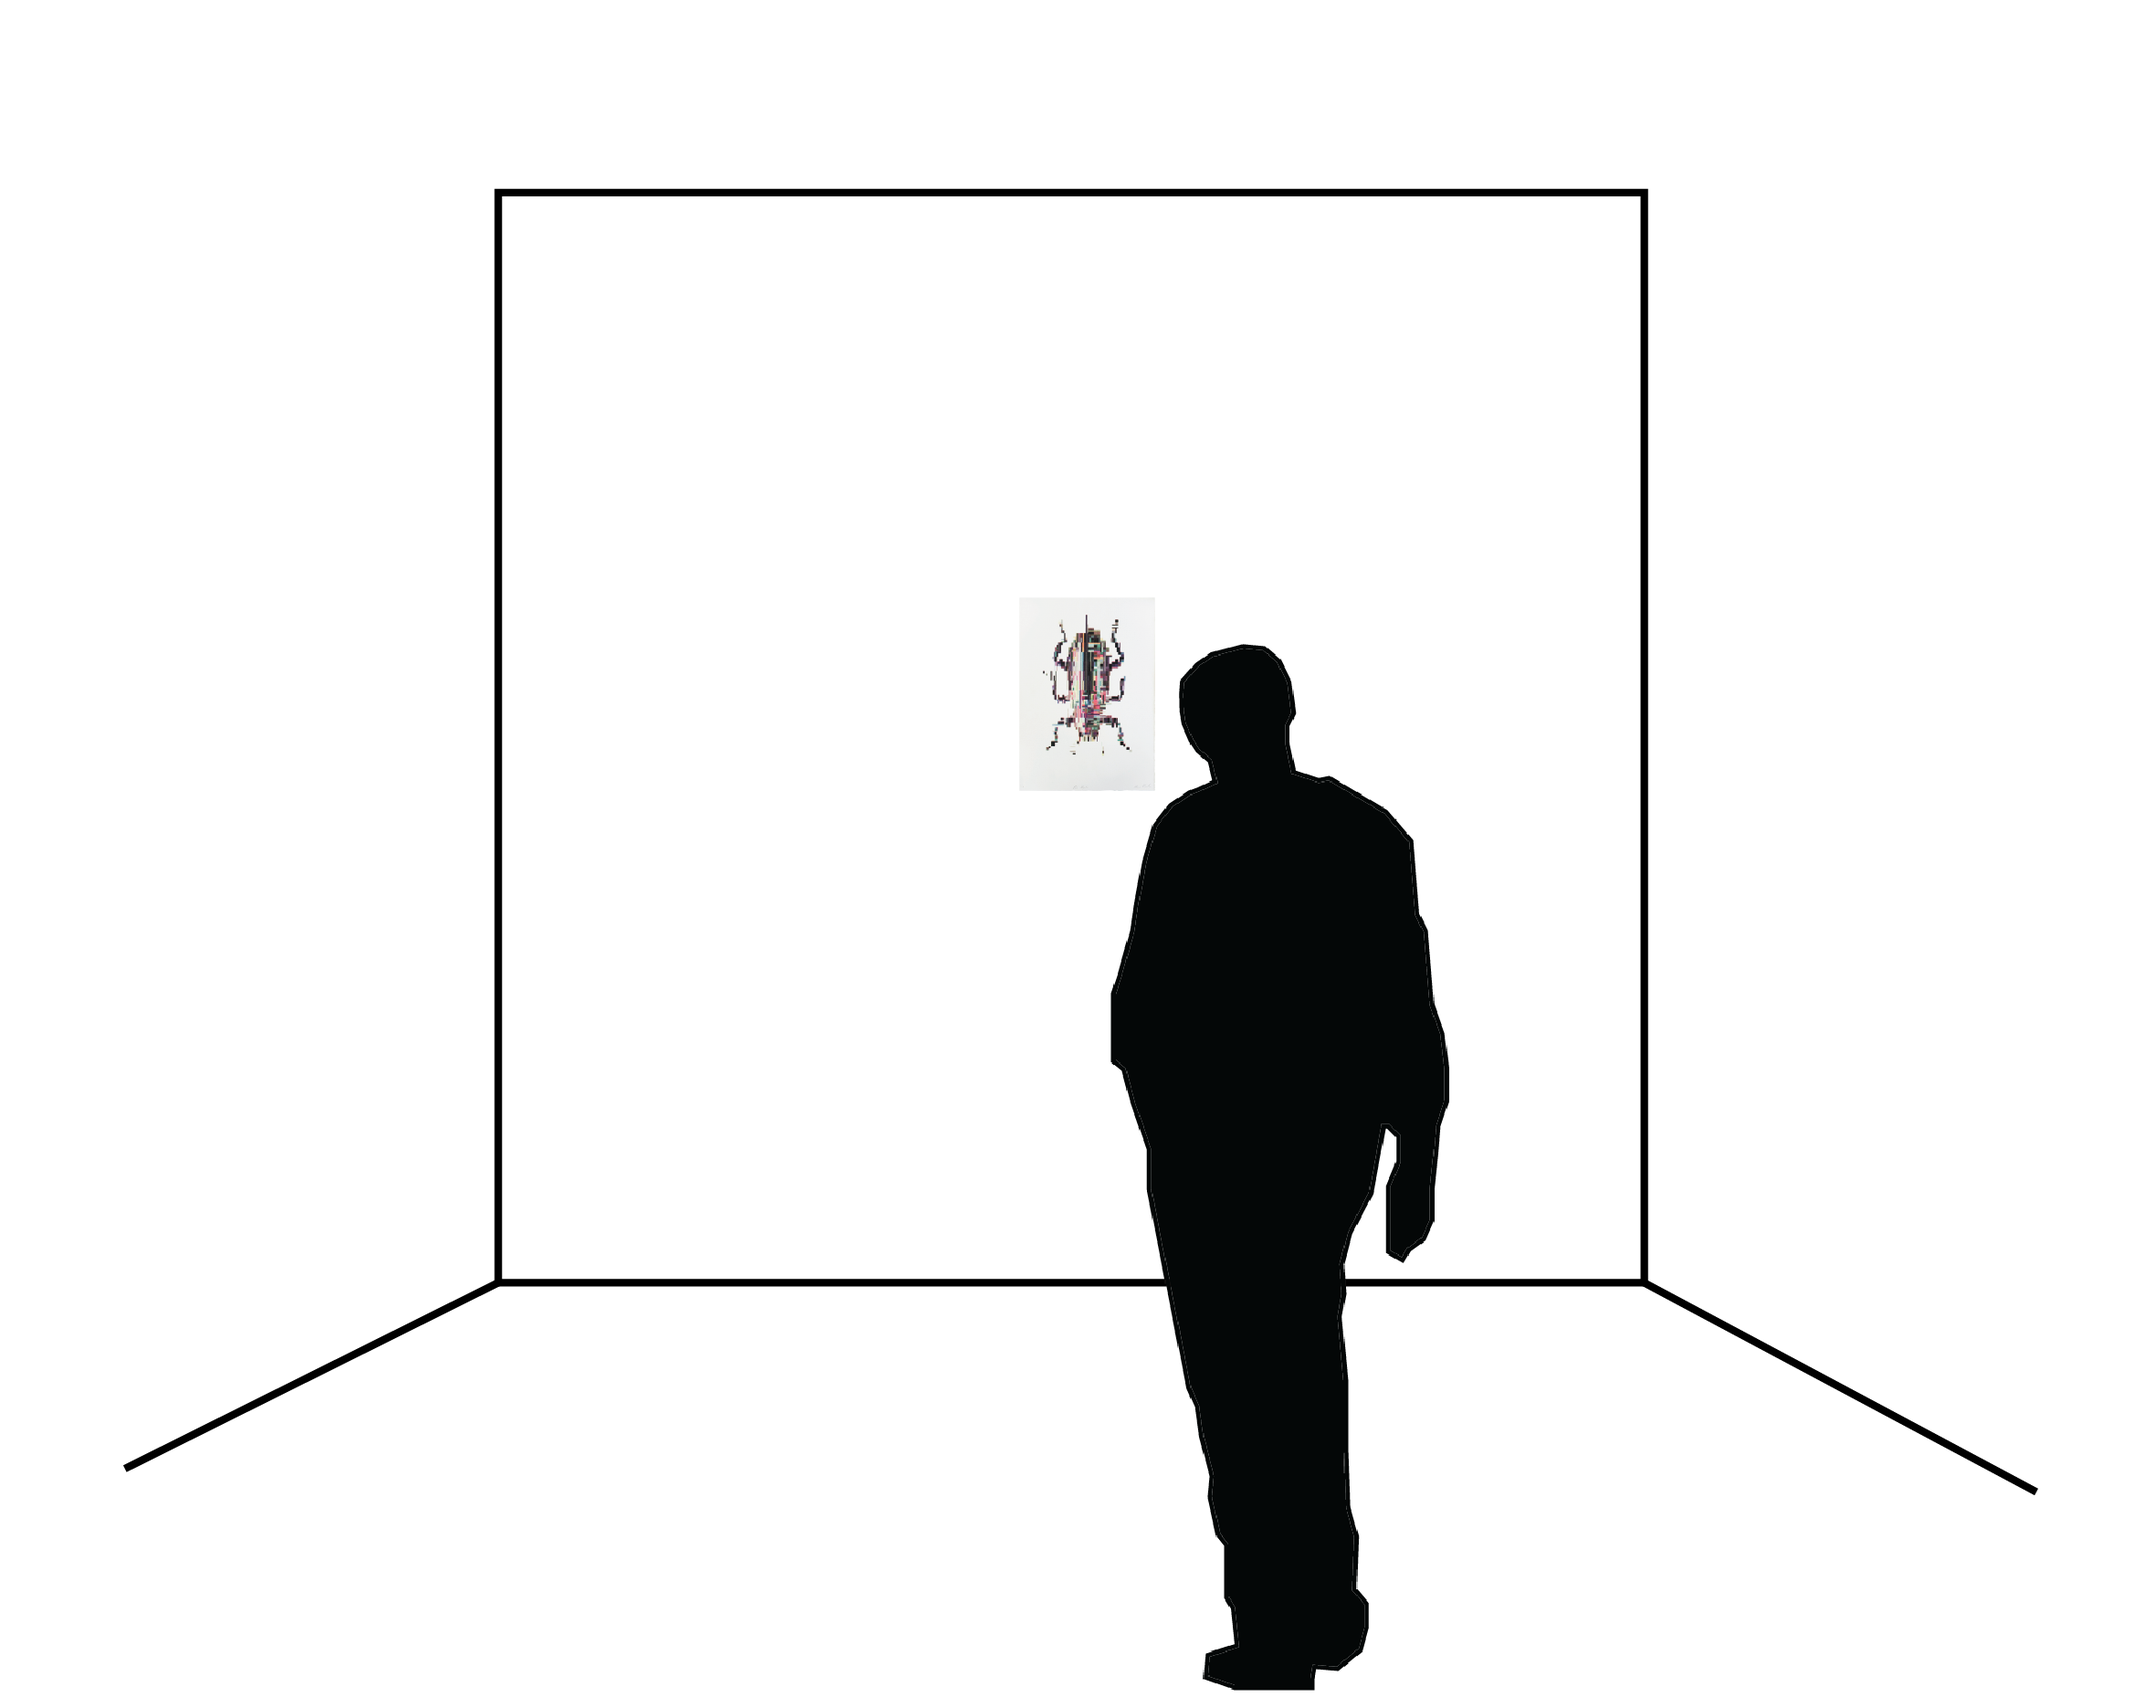
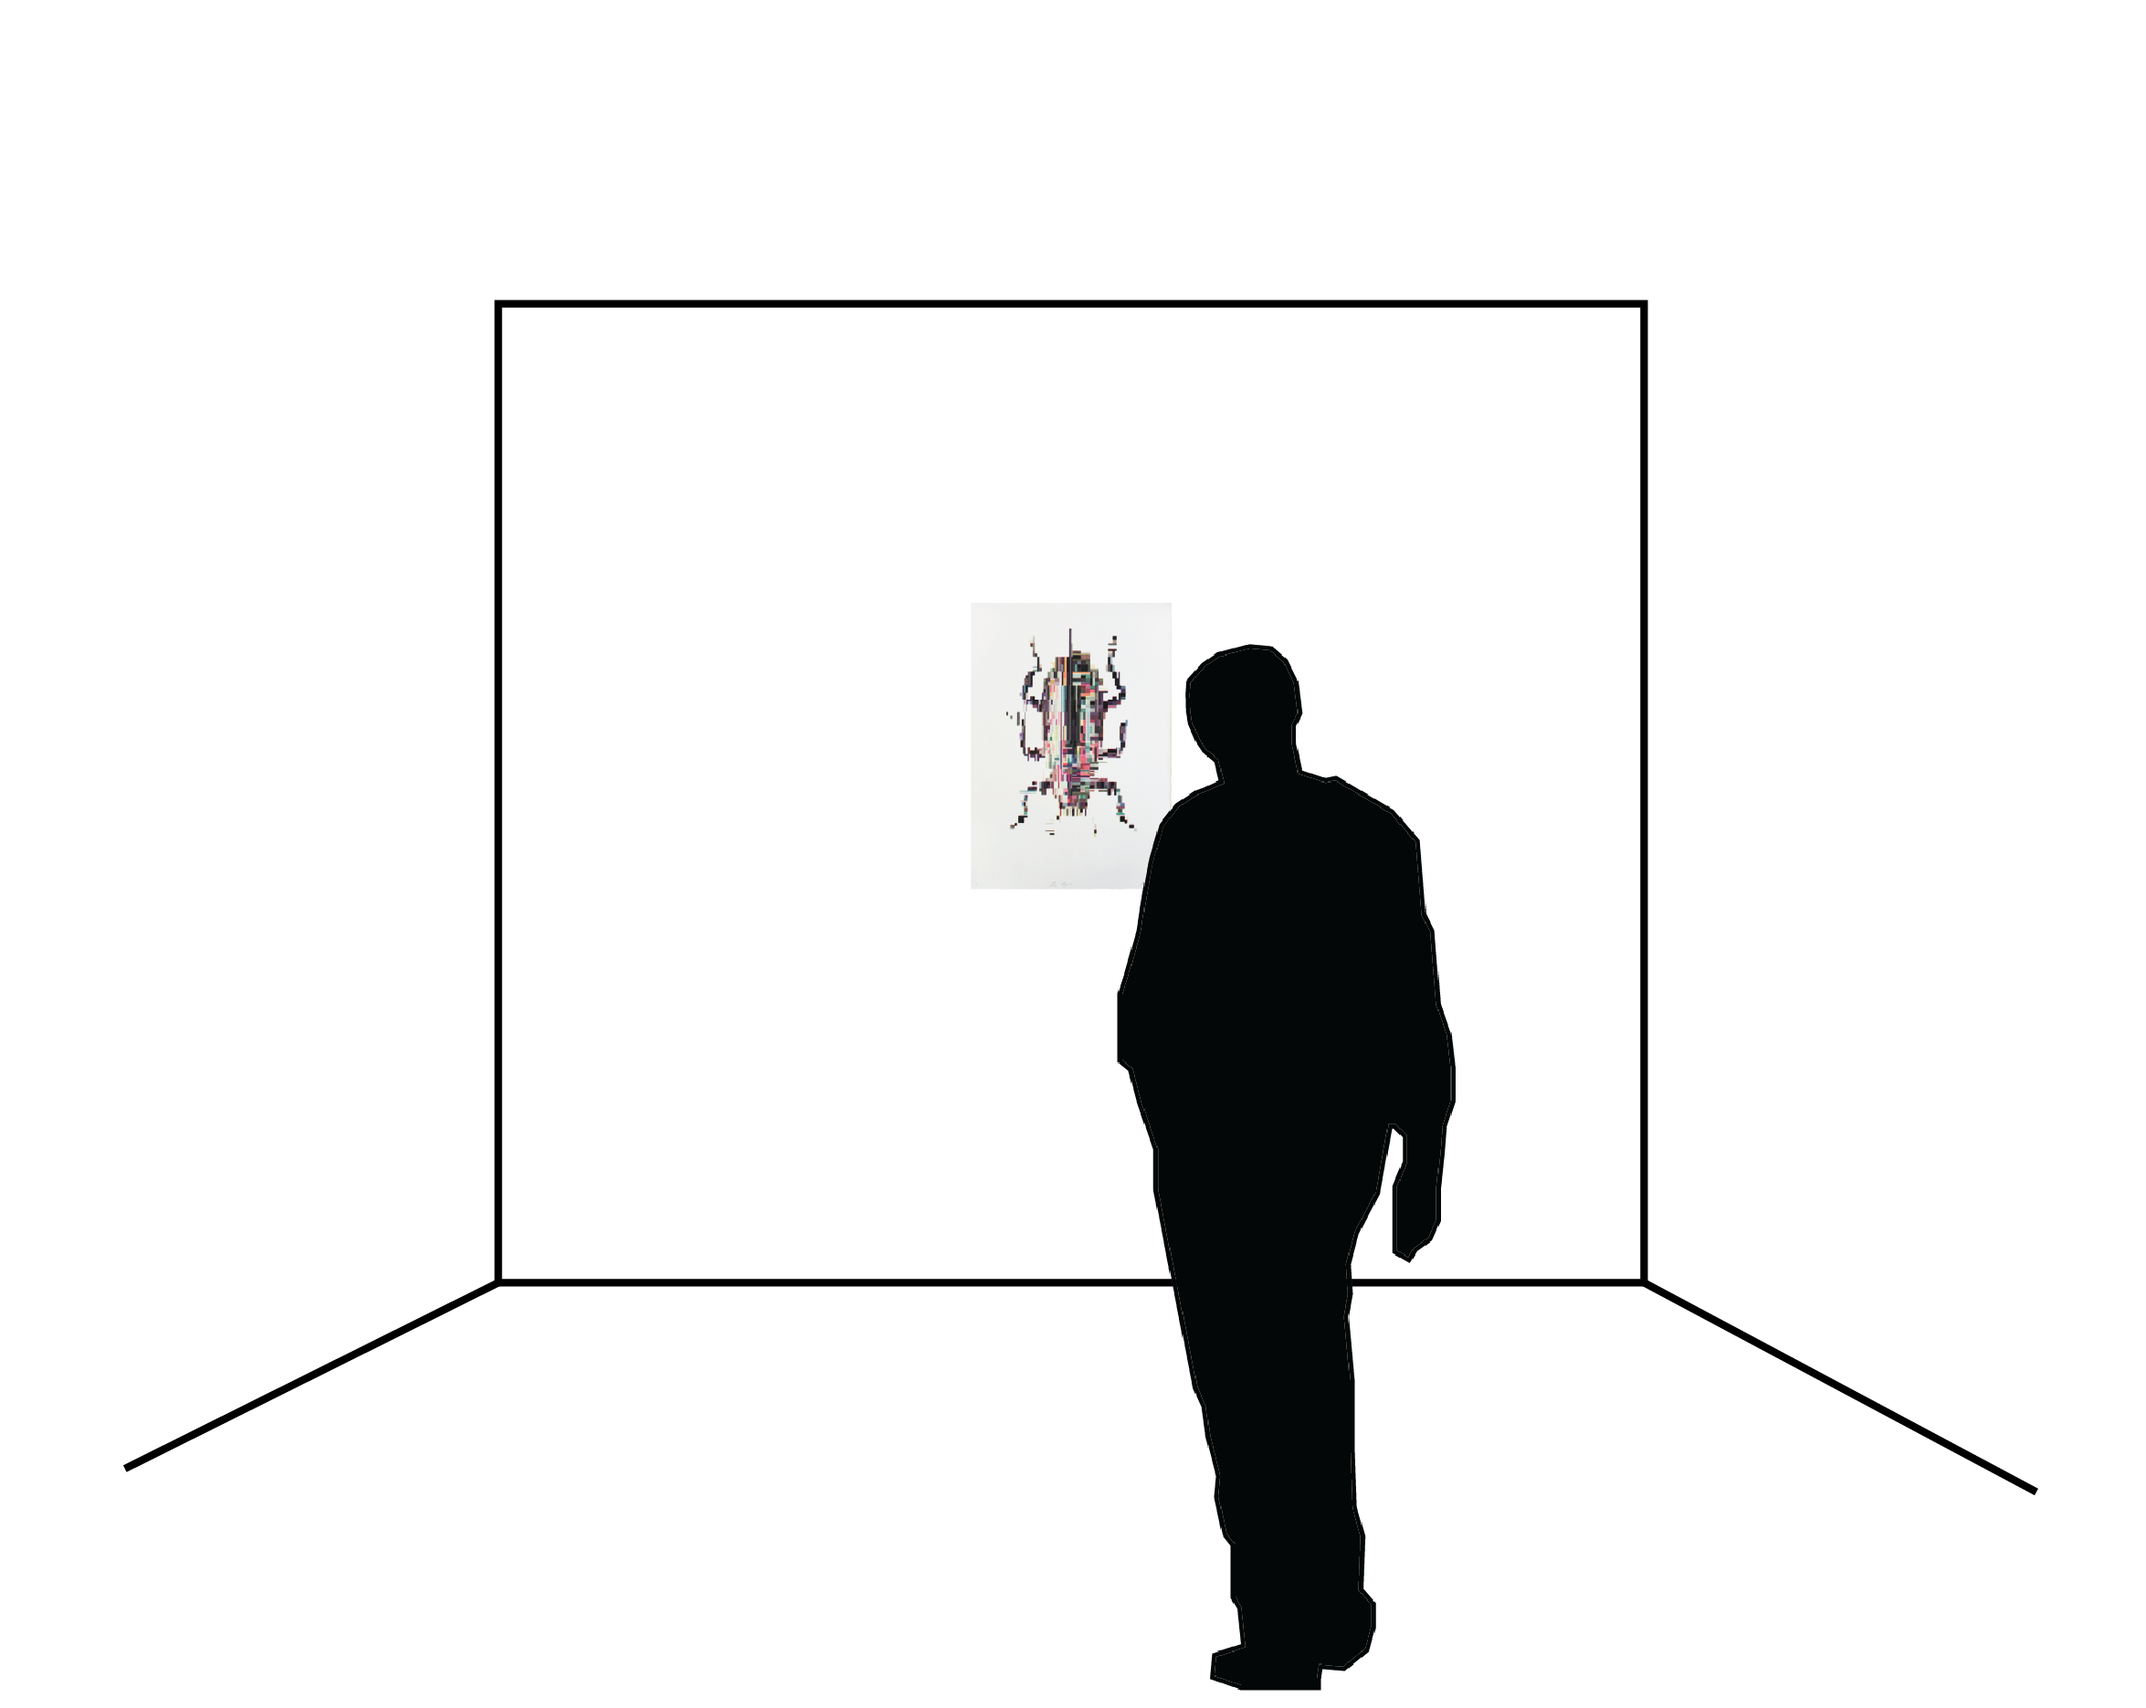
d

diff --git a/topics/EditionsAttempt4/Index.css b/topics/EditionsAttempt4/Index.css
@@ -296,17 +296,16 @@ main p {
     white-space: normal;
     box-sizing: border-box;
 }
+
+
 .SizeRefrence {
-    width: 80%;
+    width: 78%;
     height: auto;
     display: block;
     /* optional */
     margin: 0 auto;
     /* optional – centers the image */
 }
-
-
-
 @media (max-width: 700px) {
 
     #video-background {
@@ -470,5 +469,12 @@ main p {
     .image-row1 .hover-text.fade-out-once {
         animation: fade-out-text 0.5s ease-out forwards;
     }
-
+         .SizeRefrence {
+             width: 100%;
+             height: auto;
+             display: block;
+             /* optional */
+             margin: 0 auto;
+             /* optional – centers the image */
+         }
 }

diff --git a/topics/EditionsAttempt4/Index.html b/topics/EditionsAttempt4/Index.html
@@ -198,7 +198,10 @@
     </div> <!-- end of image-row -->
 
     <!-- JavaScript for scroll-based blur -->
-    
+  
+    <img src="assets/SizeReference.png" class="SizeRefrence">
+
+
 </body>
 
 </html>
